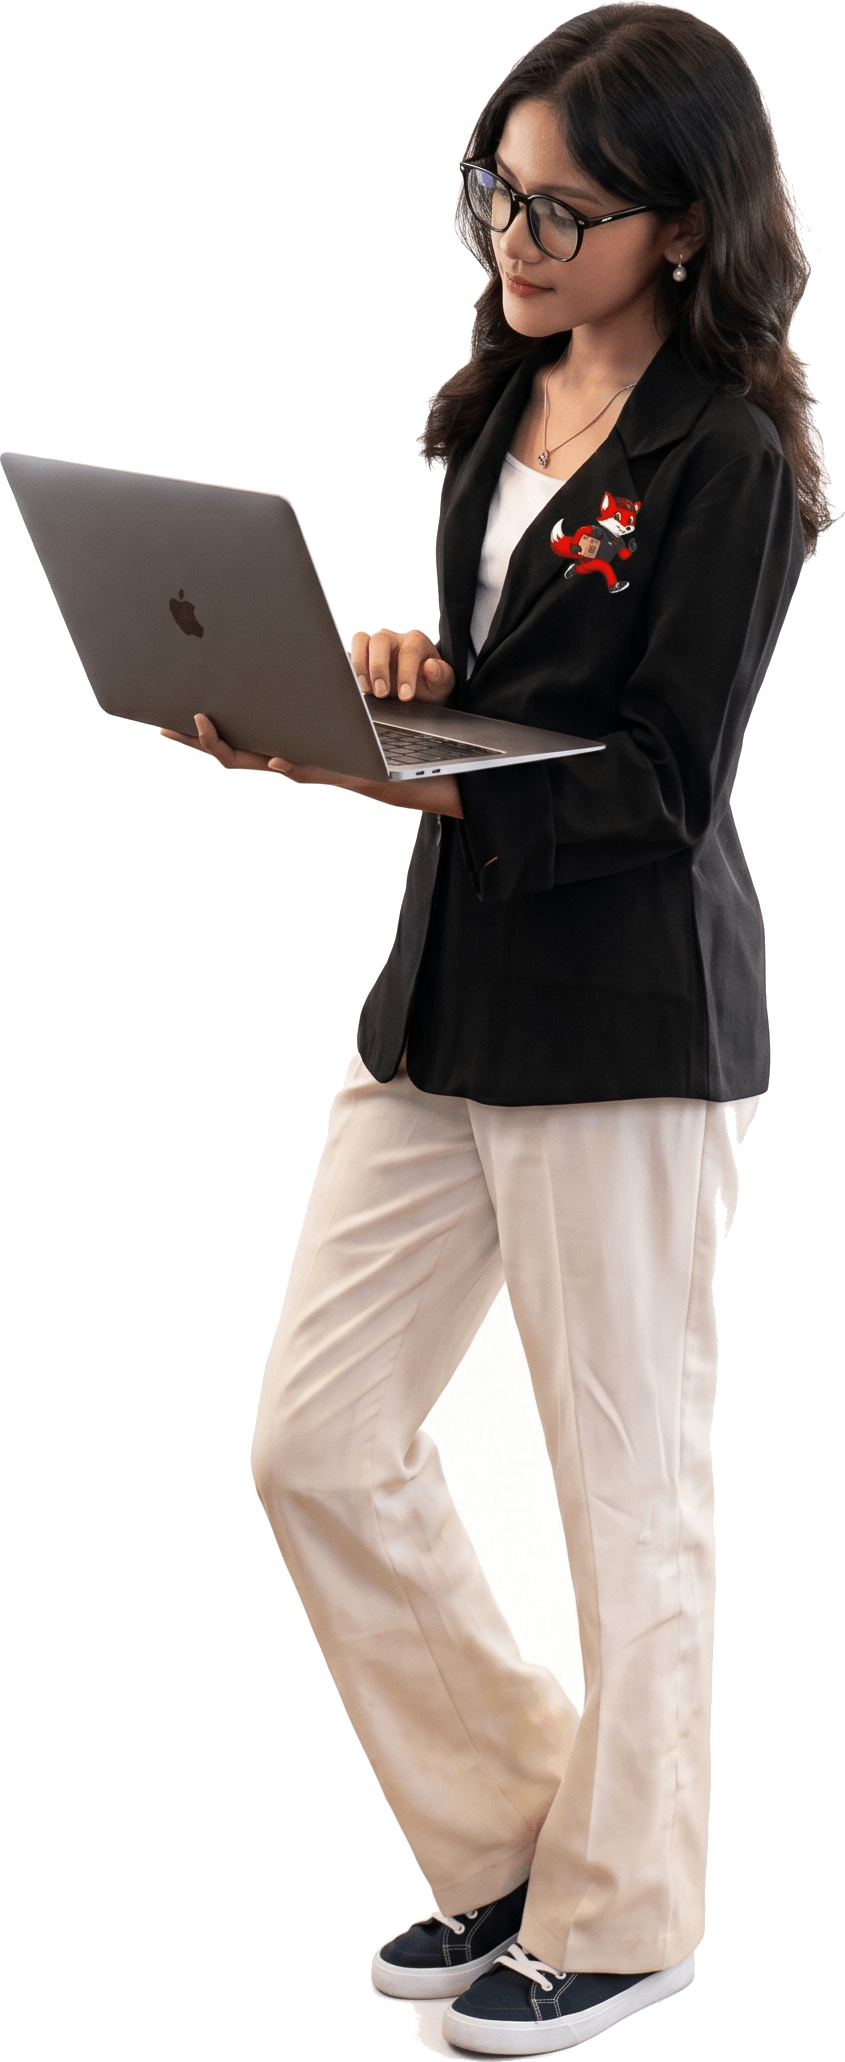
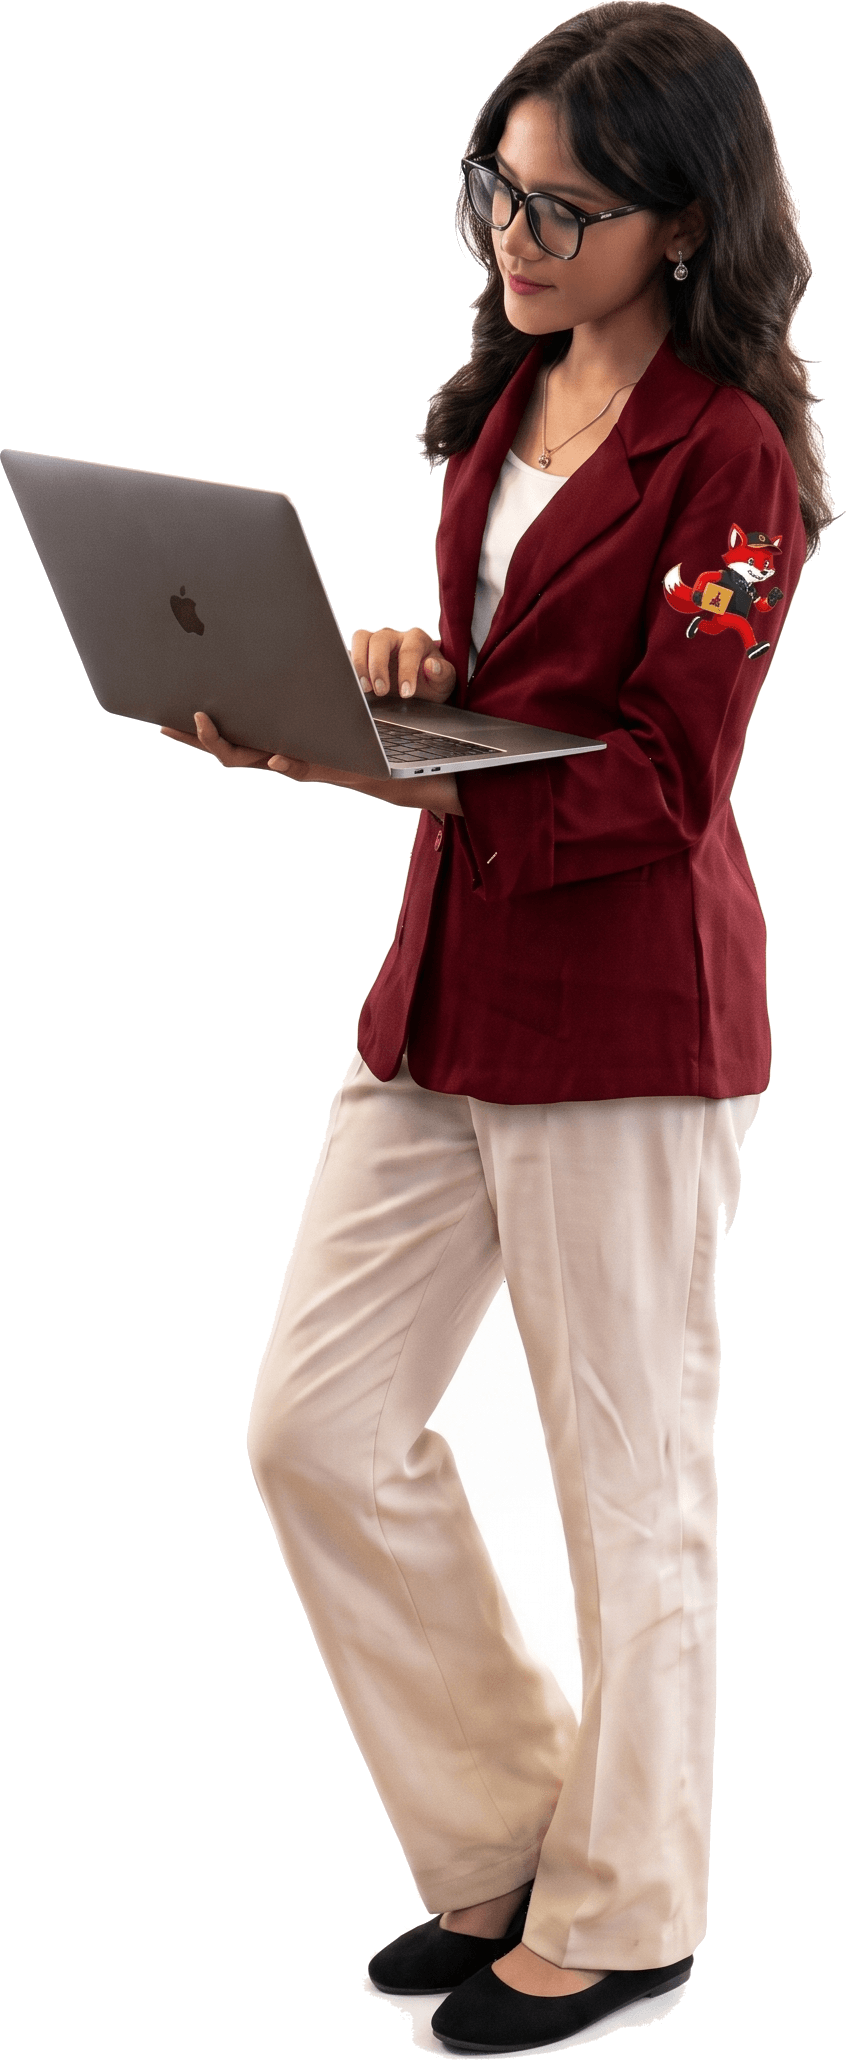
feat(ui): update female hero to official maroon blazer model and add bespoke 2.5D parallax animations

diff --git a/src/components/public/EditorialHero.js b/src/components/public/EditorialHero.js
@@ -1,20 +1,87 @@
 'use client';
 
+import { useState, useRef, useEffect } from 'react';
 import Image from 'next/image';
 import Link from 'next/link';
 
 export default function EditorialHero() {
+  const containerRef = useRef(null);
+  const [coords, setCoords] = useState({ x: 0, y: 0 }); // smoothed values from -1 to 1
+  const targetCoords = useRef({ x: 0, y: 0 });
+  const currentCoords = useRef({ x: 0, y: 0 });
+  const animFrameId = useRef(null);
+  const isTouchRef = useRef(false);
+  const [isHovered, setIsHovered] = useState(false);
+
+  useEffect(() => {
+    // Detect touch devices
+    if (typeof window !== 'undefined' && ('ontouchstart' in window || navigator.maxTouchPoints > 0)) {
+      isTouchRef.current = true;
+    }
+
+    const animate = () => {
+      // Smooth lerp damping (0.075 for silk-like organic inertia)
+      currentCoords.current.x += (targetCoords.current.x - currentCoords.current.x) * 0.075;
+      currentCoords.current.y += (targetCoords.current.y - currentCoords.current.y) * 0.075;
+
+      setCoords({
+        x: currentCoords.current.x,
+        y: currentCoords.current.y,
+      });
+
+      animFrameId.current = requestAnimationFrame(animate);
+    };
+
+    animFrameId.current = requestAnimationFrame(animate);
+
+    return () => {
+      if (animFrameId.current) cancelAnimationFrame(animFrameId.current);
+    };
+  }, []);
+
+  const handleMouseMove = (e) => {
+    if (!containerRef.current || isTouchRef.current) return;
+    const rect = containerRef.current.getBoundingClientRect();
+    const nx = ((e.clientX - rect.left) / rect.width) * 2 - 1; // -1 to 1
+    const ny = ((e.clientY - rect.top) / rect.height) * 2 - 1; // -1 to 1
+    targetCoords.current = {
+      x: Math.max(-1, Math.min(1, nx)),
+      y: Math.max(-1, Math.min(1, ny)),
+    };
+  };
+
+  const handleMouseEnter = () => {
+    setIsHovered(true);
+  };
+
+  const handleMouseLeave = () => {
+    setIsHovered(false);
+    targetCoords.current = { x: 0, y: 0 };
+  };
+
   return (
-    <section className="relative w-full bg-white border-b border-gray-100 overflow-hidden">
+    <section 
+      ref={containerRef}
+      onMouseMove={handleMouseMove}
+      onMouseEnter={handleMouseEnter}
+      onMouseLeave={handleMouseLeave}
+      className="relative w-full bg-white border-b border-gray-100 overflow-hidden select-none"
+      style={{ perspective: '1200px' }}
+    >
       
       {/* Hero Canvas Area */}
       <div className="max-w-7xl mx-auto px-4 sm:px-6 lg:px-8 relative h-[440px] sm:h-[540px] md:h-[660px] lg:h-[740px] flex flex-col justify-between pt-4 sm:pt-6 pb-2 md:pb-6">
 
-        {/* 1. TOP ROW: Quote on Left, Striped Number on Right */}
-        <div className="relative z-20 flex items-start justify-between gap-3">
+        {/* 1. TOP ROW: Quote on Left, Infinite-Hatched Number on Right */}
+        <div className="relative z-20 flex items-start justify-between gap-3 pointer-events-none">
           
           {/* Top Left Quote Block */}
-          <div className="max-w-[210px] sm:max-w-xs md:max-w-md">
+          <div 
+            className="max-w-[210px] sm:max-w-xs md:max-w-md pointer-events-auto transition-transform duration-200 ease-out"
+            style={{
+              transform: `translate3d(${coords.x * -6}px, ${coords.y * -4}px, 0)`,
+            }}
+          >
             <span className="text-2xl sm:text-4xl md:text-5xl font-serif text-gray-900 leading-none select-none block -mb-0.5">
               “
             </span>
@@ -26,23 +93,36 @@ export default function EditorialHero() {
             </p>
           </div>
 
-          {/* Top Right Diagonal-Hatched Number (Year '26 like '15 in reference) */}
-          <div className="shrink-0 select-none">
+          {/* Top Right Kinetic Diagonal-Hatched Number Stamp */}
+          <div 
+            className="shrink-0 select-none pointer-events-auto transition-transform duration-200 ease-out"
+            style={{
+              transform: `translate3d(${coords.x * 8}px, ${coords.y * 5}px, 0)`,
+            }}
+          >
             <div 
-              className="text-5xl sm:text-7xl md:text-8xl lg:text-9xl font-black leading-none tracking-tighter"
+              className="text-5xl sm:text-7xl md:text-8xl lg:text-9xl font-black leading-none tracking-tighter animate-stripe-drift cursor-default"
               style={{
                 backgroundImage: 'repeating-linear-gradient(45deg, #1A1A1A, #1A1A1A 3px, transparent 3px, transparent 8px)',
+                backgroundSize: '16px 16px',
                 WebkitBackgroundClip: 'text',
                 WebkitTextFillColor: 'transparent',
               }}
+              title="Official Year 2026 Edition"
             >
               26
             </div>
           </div>
         </div>
 
-        {/* 2. BACKGROUND GIANT TYPOGRAPHY: HIPMORA */}
-        <div className="absolute inset-0 flex items-center justify-center pointer-events-none z-10 px-2 sm:px-4">
+        {/* 2. BACKGROUND GIANT TYPOGRAPHY: HIPMORA with Counter-Parallax Depth */}
+        <div 
+          className="absolute inset-0 flex items-center justify-center pointer-events-none z-10 px-2 sm:px-4 will-change-transform"
+          style={{
+            transform: `translate3d(${coords.x * -22}px, ${coords.y * -8}px, 0)`,
+            transition: isHovered ? 'none' : 'transform 0.6s ease-out',
+          }}
+        >
           <span 
             className="text-[17vw] sm:text-[15vw] md:text-[13.5vw] lg:text-[14vw] font-black text-[#C62828] tracking-tight uppercase leading-none select-none text-center transform translate-y-2 sm:translate-y-4 md:translate-y-6"
           >
@@ -50,27 +130,43 @@ export default function EditorialHero() {
           </span>
         </div>
 
-        {/* 3. CENTER FOREGROUND CUTOUT CHARACTER (Clean Transparent PNG) */}
+        {/* 3. CENTER FOREGROUND CUTOUT CHARACTER (2.5D Spatial Perspective & Directional Shadow) */}
         <div className="absolute inset-x-0 bottom-0 z-20 flex justify-center items-end pointer-events-none">
-          <div className="relative w-[280px] sm:w-[360px] md:w-[460px] lg:w-[520px] h-[370px] sm:h-[470px] md:h-[590px] lg:h-[670px] pointer-events-auto">
+          <div 
+            className={`relative w-[280px] sm:w-[360px] md:w-[460px] lg:w-[520px] h-[370px] sm:h-[470px] md:h-[590px] lg:h-[670px] pointer-events-auto will-change-transform ${
+              !isHovered ? 'animate-editorial-breathe' : ''
+            }`}
+            style={{
+              transform: `translate3d(${coords.x * 16}px, ${coords.y * 6}px, 0) rotateY(${coords.x * 4.5}deg) rotateX(${-coords.y * 2.5}deg)`,
+              transformStyle: 'preserve-3d',
+              transition: isHovered ? 'none' : 'transform 0.5s cubic-bezier(0.2, 0.8, 0.2, 1)',
+            }}
+          >
             <Image
-              src="/images/female-pose.png"
+              src="/images/female-fix.png"
               alt="Model Mahasiswa HIPMORA"
               fill
               priority
               sizes="(max-width: 640px) 280px, (max-width: 1024px) 460px, 520px"
-              className="object-contain object-bottom drop-shadow-2xl"
+              className="object-contain object-bottom transition-all duration-300"
+              style={{
+                filter: `drop-shadow(${-coords.x * 24}px ${16 + coords.y * 8}px 30px rgba(0, 0, 0, 0.18))`,
+              }}
             />
           </div>
         </div>
 
         {/* 4. DESKTOP WIDGETS: Floating at bottom-left and bottom-right (Desktop Only) */}
-        <div className="hidden md:flex relative z-30 items-end justify-between gap-4 w-full mt-auto">
+        <div className="hidden md:flex relative z-30 items-end justify-between gap-4 w-full mt-auto pointer-events-none">
           
           {/* Bottom Left: Catalog Media Preview Card */}
           <Link
             href="/products"
-            className="group flex items-center gap-3 bg-white/95 backdrop-blur-md p-2.5 rounded-2xl border border-gray-200/90 shadow-lg hover:shadow-xl hover:border-red-200 transition-all cursor-pointer max-w-xs"
+            className="group flex items-center gap-3 bg-white/95 backdrop-blur-md p-2.5 rounded-2xl border border-gray-200/90 shadow-lg hover:shadow-2xl hover:border-red-200 transition-all cursor-pointer max-w-xs pointer-events-auto transform hover:-translate-y-1.5 active:scale-98"
+            style={{
+              transform: `translate3d(${coords.x * -8}px, ${coords.y * -4}px, 0)`,
+              transition: 'transform 0.25s ease-out, box-shadow 0.25s ease-out, border-color 0.25s',
+            }}
           >
             <div className="relative w-20 h-14 sm:w-24 sm:h-16 rounded-xl overflow-hidden bg-gray-100 shrink-0">
               <Image 
@@ -102,7 +198,13 @@ export default function EditorialHero() {
           </Link>
 
           {/* Bottom Right: Floating Dark Deals Widget */}
-          <div className="bg-[#111113] text-white rounded-2xl p-3 sm:p-3.5 shadow-2xl border border-white/10 w-68">
+          <div 
+            className="bg-[#111113] text-white rounded-2xl p-3 sm:p-3.5 shadow-2xl border border-white/10 w-68 pointer-events-auto transform hover:-translate-y-1.5 transition-all duration-200"
+            style={{
+              transform: `translate3d(${coords.x * 8}px, ${coords.y * -4}px, 0)`,
+              transition: 'transform 0.25s ease-out, box-shadow 0.25s ease-out',
+            }}
+          >
             <div className="flex items-center justify-between pb-1.5 mb-1.5 border-b border-white/10">
               <span className="bg-[#C62828] text-white text-[9px] font-extrabold px-2 py-0.5 rounded-md uppercase tracking-wider">
                 SPECIAL DEALS

diff --git a/src/app/globals.css b/src/app/globals.css
@@ -61,3 +61,31 @@ html {
 .animate-slide-up {
   animation: slide-up 0.3s ease-out forwards;
 }
+
+/* Editorial Hero Bespoke Animations */
+@keyframes stripe-drift {
+  0% {
+    background-position: 0 0;
+  }
+  100% {
+    background-position: 32px 32px;
+  }
+}
+
+.animate-stripe-drift {
+  animation: stripe-drift 8s linear infinite;
+}
+
+@keyframes editorial-breathe {
+  0%, 100% {
+    transform: translateY(0px) scale(1);
+  }
+  50% {
+    transform: translateY(-5px) scale(1.006);
+  }
+}
+
+.animate-editorial-breathe {
+  animation: editorial-breathe 6s ease-in-out infinite;
+}
+
